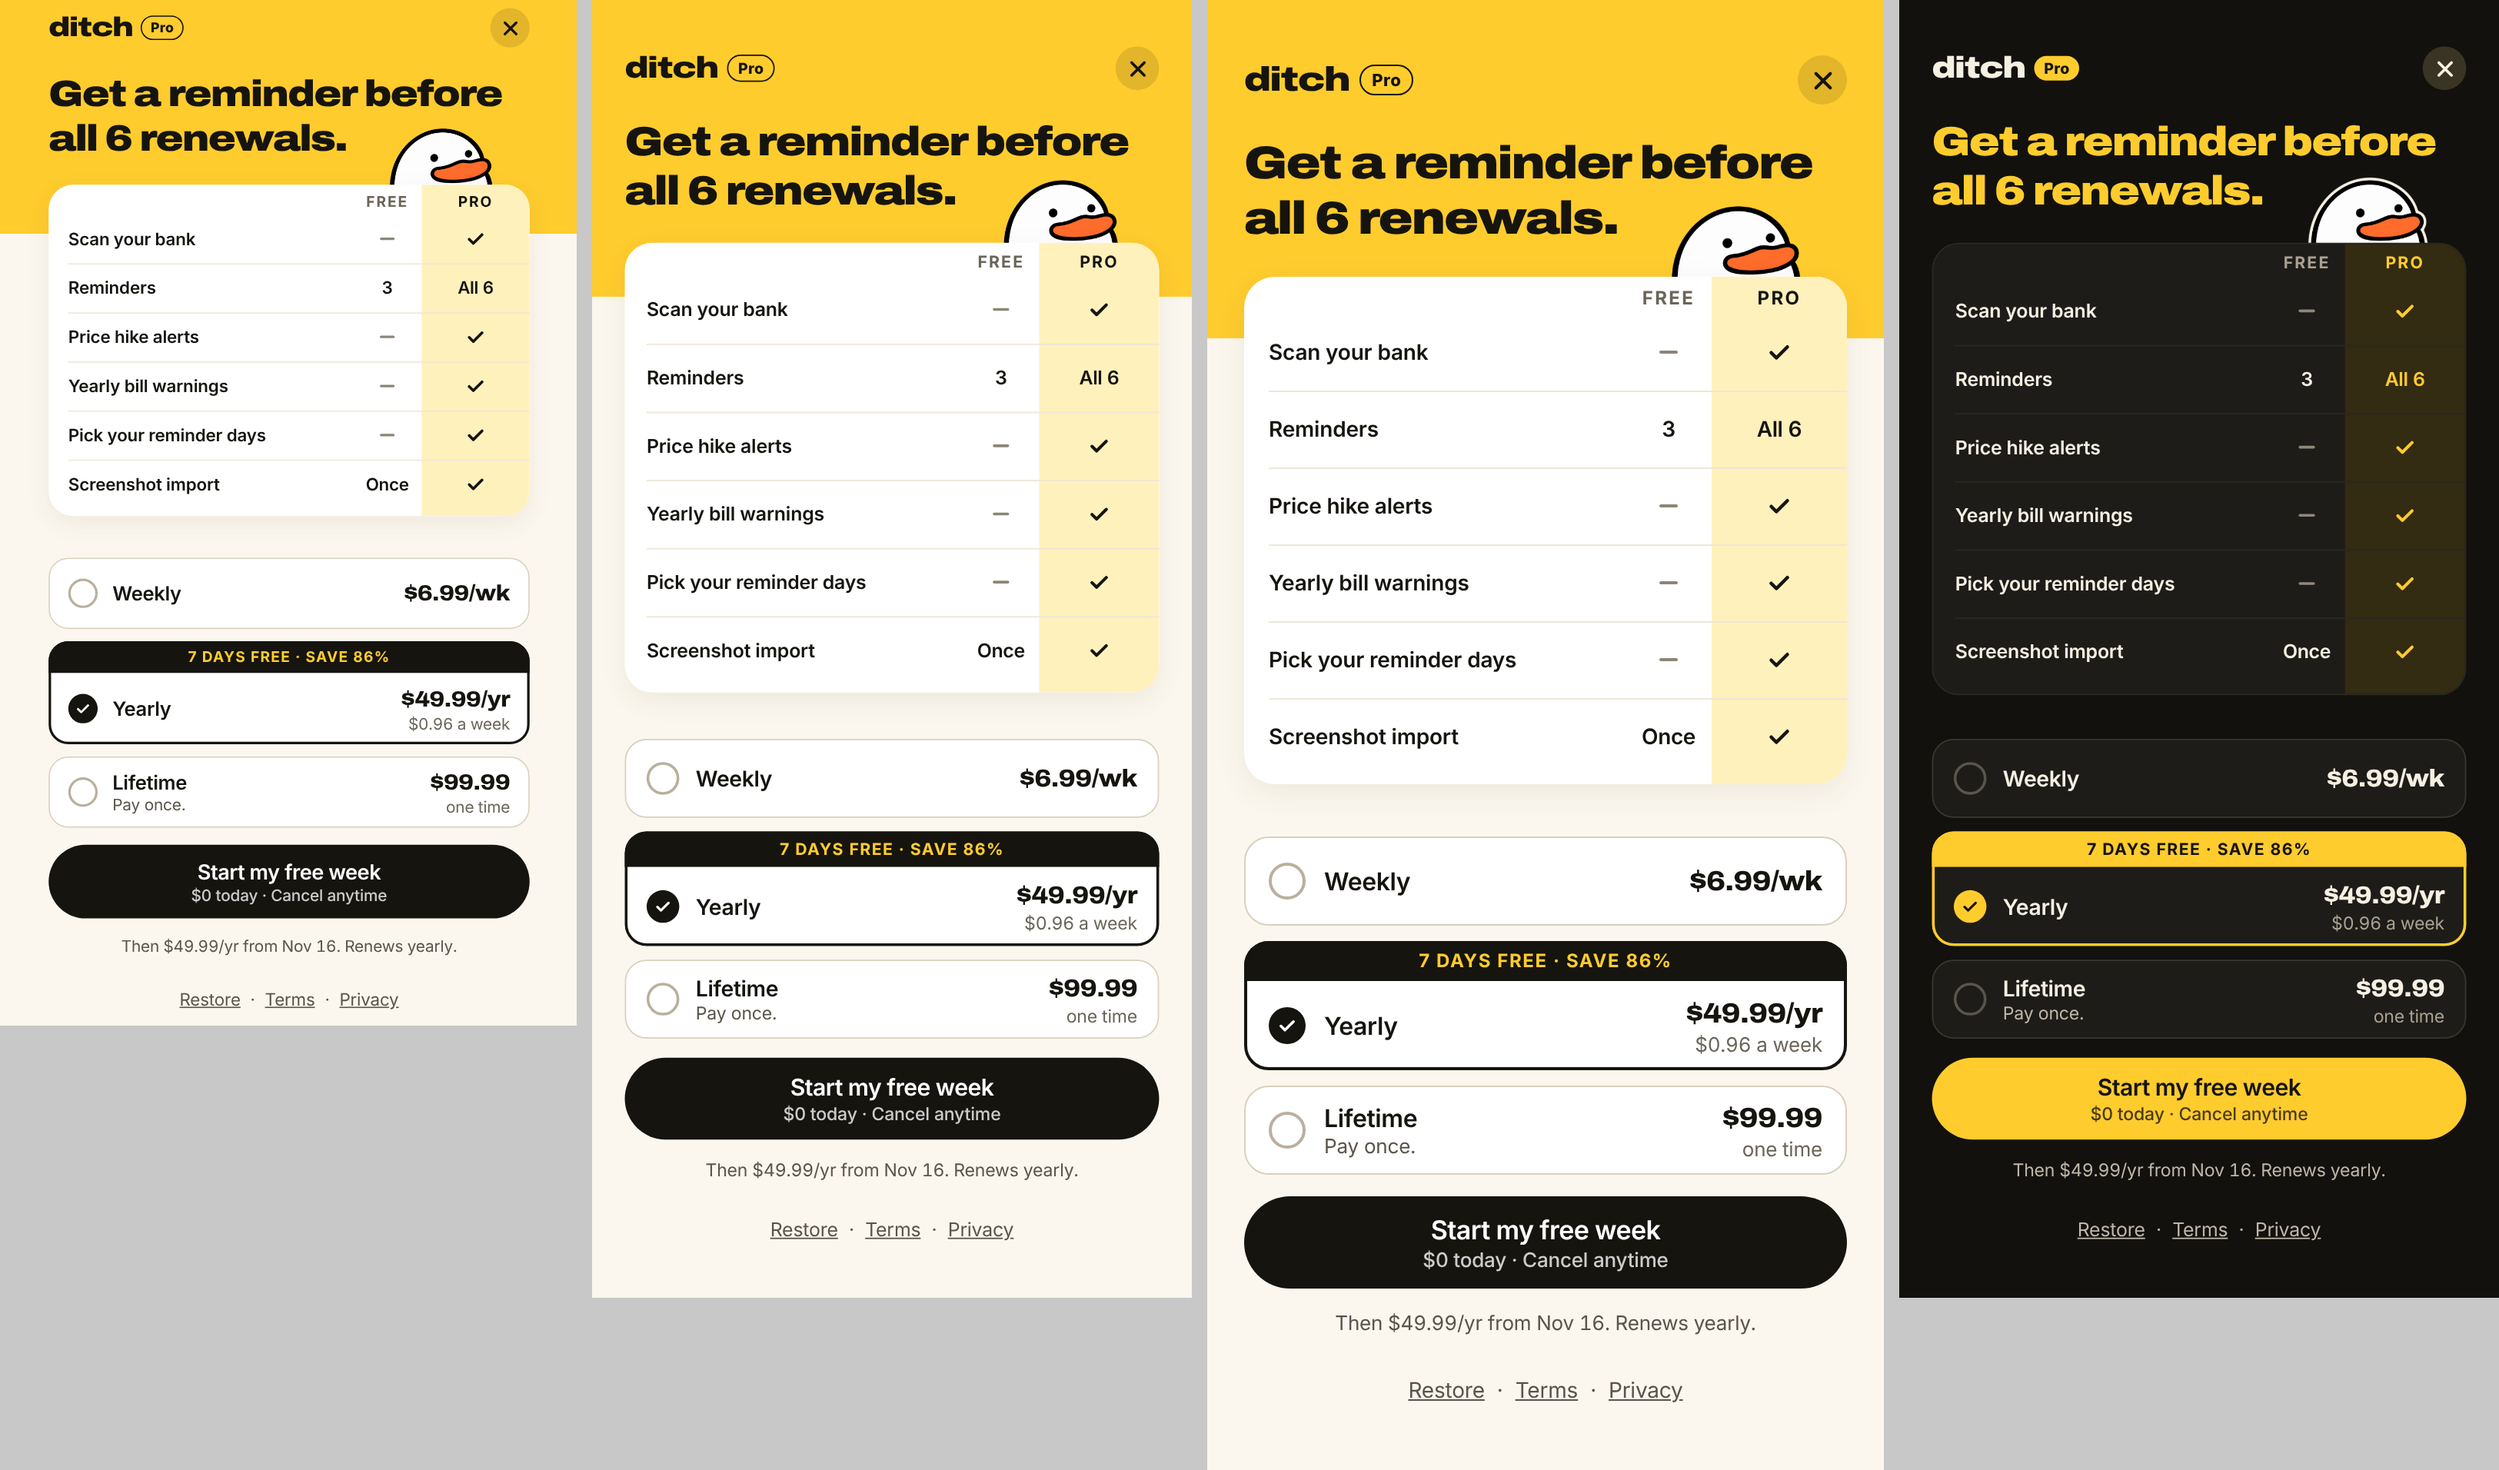
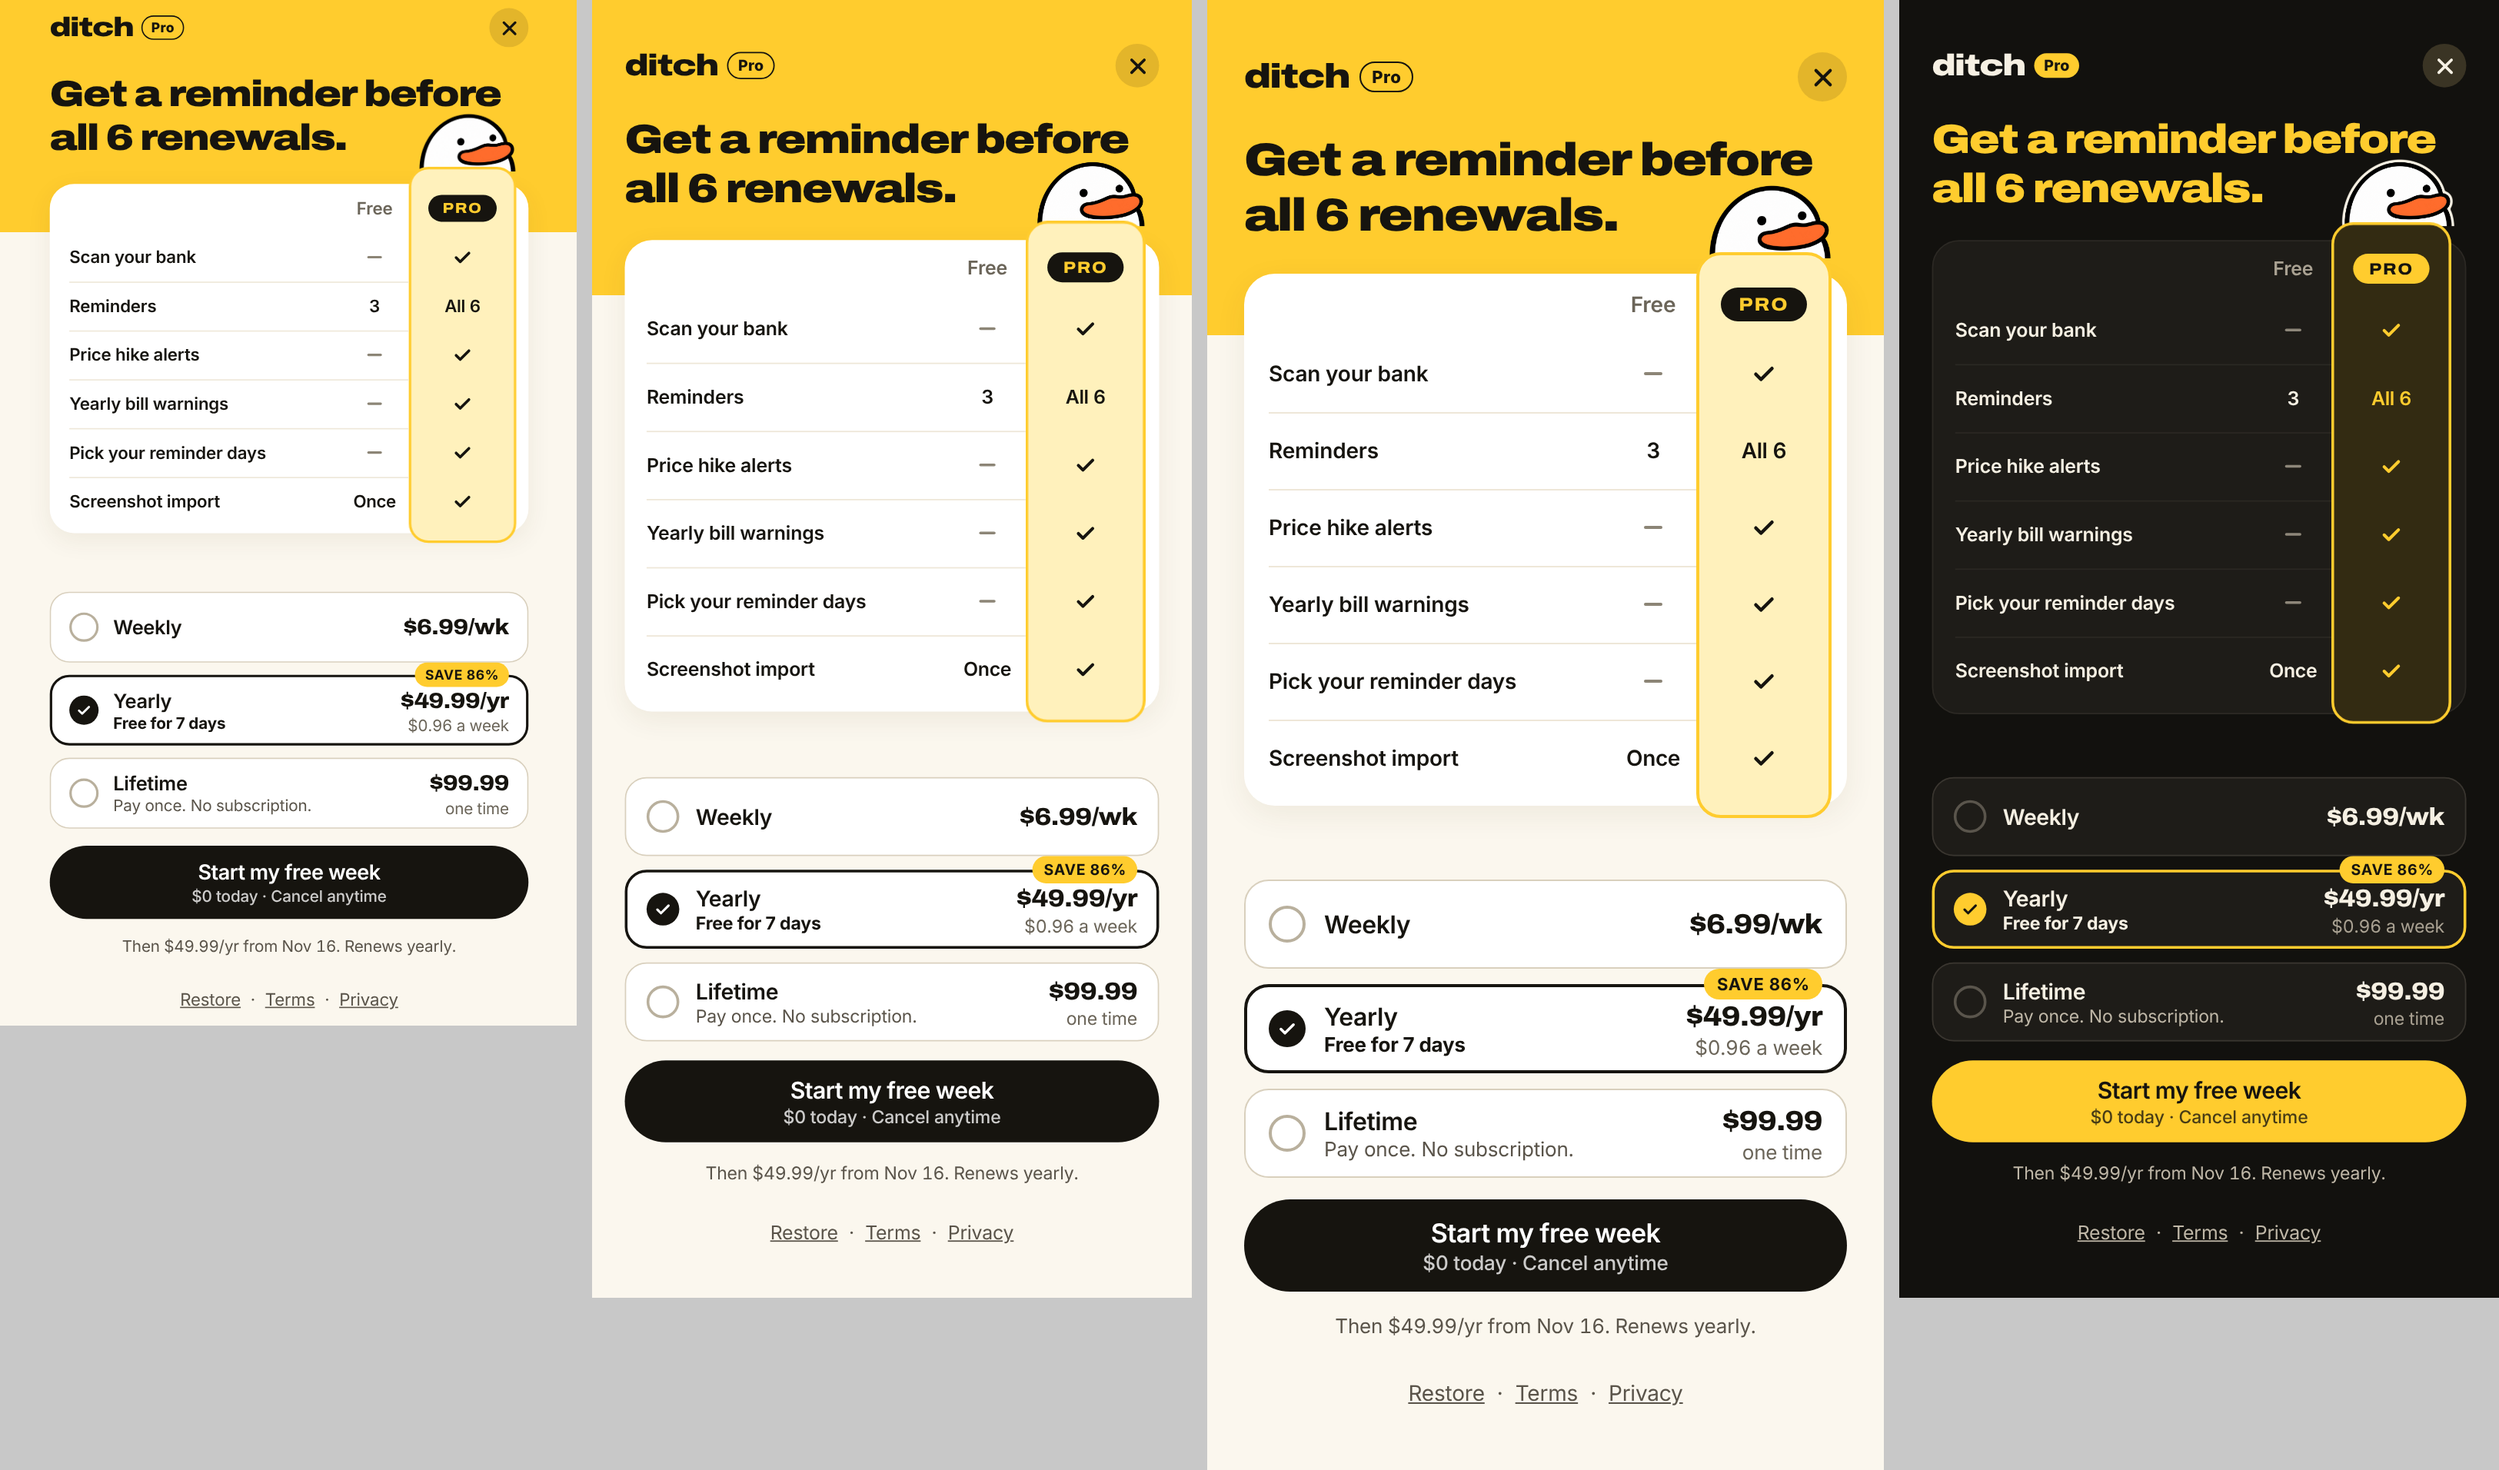
Paywall: raised Pro column with PRO pill and the duck on top; 'Free for 7 days' line and yellow SAVE ribbon on Yearly
Claude-Session: https://claude.ai/code/session_01Q8GFjWCZXwnj2nAcxjTkxh

diff --git a/src/app/paywall.tsx b/src/app/paywall.tsx
@@ -81,10 +81,12 @@ const SHORT: Record<string, string> = {
 
 // The fixed paywall canvas (see the scaling note in Paywall).
 const CANVAS_W = 440;
+/** Gap between the raised Pro column and the table's right edge. */
+const PRO_INSET = 10;
 const HERO_H = 190;
 const EDGE_W = 24;
 /** Everything on the canvas except the table rows (hero, table header, plans, button, price line, links). */
-const CANVAS_BASE = 596;
+const CANVAS_BASE = 600;
 /** Table row height range: 52pt (SE) to 66pt (fewer rows get more air). Each row has a label and a line under it. */
 const ROW_MIN = 40;
 const ROW_MAX = 50;
@@ -101,7 +103,7 @@ function Compare({ rows, width, overlap, tiny, grow = 0 }: { rows: Row[]; width:
   const [labelW, setLabelW] = useState<Record<string, number>>({});
   const colF = 56;
   const colP = Math.ceil(unlimitedW) + 24;
-  const room = width - 16 - 8 - colF - colP;
+  const room = width - 16 - 8 - colF - colP - PRO_INSET;
 
   const cell = (v: Cell, pro: boolean) => {
     const c = pro && dark ? brand.sunflower : ink;
@@ -116,7 +118,7 @@ function Compare({ rows, width, overlap, tiny, grow = 0 }: { rows: Row[]; width:
   const spoken = (v: Cell) => (v === 'yes' ? 'included' : v === 'no' ? 'not included' : v);
 
   return (
-    <Card style={{ marginTop: -overlap, overflow: 'hidden', zIndex: 2 }}>
+    <Card style={{ marginTop: -overlap, overflow: 'visible', zIndex: 2 }}>
       {/* Hidden measurements: "Unlimited" sets the Pro column; labels wrap only when they must. */}
       <View
         pointerEvents="none"
@@ -138,15 +140,32 @@ function Compare({ rows, width, overlap, tiny, grow = 0 }: { rows: Row[]; width:
           </Text>
         ))}
       </View>
-      <View style={{ position: 'absolute', top: 0, bottom: 0, right: 0, width: colP, backgroundColor: dark ? '#332B12' : '#FFF1BC' }} />
-      <View style={{ flexDirection: 'row', alignItems: 'center', height: 24, paddingTop: 4 }} importantForAccessibility="no-hide-descendants">
+      {/* Pro gets its own raised, yellow-edged column with a PRO pill on top (owner's pick, Nov 18: "B"). */}
+      <View
+        style={{
+          position: 'absolute',
+          top: -14,
+          bottom: -8,
+          right: PRO_INSET,
+          width: colP,
+          borderRadius: 16,
+          backgroundColor: dark ? '#332B12' : '#FFF1BC',
+          borderWidth: 2,
+          borderColor: brand.sunflower,
+        }}
+      />
+      <View style={{ flexDirection: 'row', alignItems: 'center', height: 40 }} importantForAccessibility="no-hide-descendants">
         <View style={{ flex: 1 }} />
-        <Txt v="eyebrow" tone="mute" center style={{ width: colF }}>
+        <Txt v="sub" tone="mute" center style={{ width: colF, fontFamily: F.semi }} maxFontSizeMultiplier={1.2}>
           Free
         </Txt>
-        <Txt v="eyebrow" color={dark ? brand.sunflower : ink} center style={{ width: colP }}>
-          Pro
-        </Txt>
+        <View style={{ width: colP, marginRight: PRO_INSET, alignItems: 'center' }}>
+          <View style={{ backgroundColor: dark ? brand.sunflower : brand.ink, borderRadius: 999, paddingHorizontal: 12, paddingVertical: 3 }}>
+            <Txt v="fine" color={dark ? brand.ink : brand.sunflower} style={{ fontFamily: F.wideHeavy, fontSize: 12, lineHeight: 16, letterSpacing: 1 }} maxFontSizeMultiplier={1.2}>
+              PRO
+            </Txt>
+          </View>
+        </View>
       </View>
       {rows.map((r, i) => {
         const two = (labelW[r.label] ?? 0) > room;
@@ -157,7 +176,7 @@ function Compare({ rows, width, overlap, tiny, grow = 0 }: { rows: Row[]; width:
             accessibilityLabel={`${r.label}${r.sub ? `, ${r.sub}` : ''}: Free, ${spoken(r.free)}. Pro, ${spoken(r.pro)}.`}
             style={{ flexDirection: 'row', alignItems: 'center', minHeight: ROW_MIN + grow }}
           >
-            {i ? <View style={{ position: 'absolute', top: 0, left: 16, right: 0, height: 1, backgroundColor: p.hair }} /> : null}
+            {i ? <View style={{ position: 'absolute', top: 0, left: 16, right: colP + PRO_INSET, height: 1, backgroundColor: p.hair }} /> : null}
             <View style={{ flex: 1, paddingLeft: 16, paddingRight: 8, paddingVertical: 6 }}>
               <Txt v="sub" color={p.cardFg} style={[LABEL_TEXT, { fontFamily: F.semi }, tiny && { fontSize: 13 }, { lineHeight: two ? 17 : 20 }]} maxFontSizeMultiplier={1.4}>
                 {two ? balanceLines(tiny ? (SHORT[r.label] ?? r.label) : r.label) : tiny ? (SHORT[r.label] ?? r.label) : r.label}
@@ -169,7 +188,7 @@ function Compare({ rows, width, overlap, tiny, grow = 0 }: { rows: Row[]; width:
               ) : null}
             </View>
             <View style={{ width: colF, alignItems: 'center', justifyContent: 'center' }}>{cell(r.free, false)}</View>
-            <View style={{ width: colP, alignItems: 'center', justifyContent: 'center' }}>{cell(r.pro, true)}</View>
+            <View style={{ width: colP, marginRight: PRO_INSET, alignItems: 'center', justifyContent: 'center' }}>{cell(r.pro, true)}</View>
           </View>
         );
       })}
@@ -311,8 +330,8 @@ export default function Paywall() {
             >
               {head}
             </Txt>
-            {/* His bill points at the Pro column; only the base of his neck tucks behind the table. */}
-            <Duck width={84} right={EDGE_W + 30} bottom={36} />
+            {/* He sits on top of the raised Pro column, peeking over it. */}
+            <Duck width={80} right={EDGE_W + PRO_INSET} bottom={50} />
           </View>
 
           <Compare rows={rows} width={CANVAS_W - EDGE_W * 2} overlap={40} grow={rowGrow} />
@@ -329,7 +348,12 @@ export default function Paywall() {
             />
             <PlanCard
               title="Yearly"
-              banner={`${yearly.trialDays} DAYS FREE · ${badge}`}
+              note={`Free for ${yearly.trialDays} days`}
+              noteStrong
+              badge={badge}
+              badgeBg={brand.sunflower}
+              badgeFg={brand.ink}
+              badgeRight
               price={billedLabel(yearly)}
               sub={`${perWeek} a week`}
               selected={planId === 'yearly'}

diff --git a/src/ui/sunflower/PlanCard.tsx b/src/ui/sunflower/PlanCard.tsx
@@ -24,6 +24,8 @@ export function PlanCard({
   tint,
   banner,
   badgeBg,
+  badgeRight,
+  noteStrong,
   badgeFg,
 }: {
   /** Fill for the selected card (the plan we want picked). */
@@ -32,6 +34,10 @@ export function PlanCard({
   banner?: string;
   /** Badge colours (default: ink on cream, sunflower in dark mode). */
   badgeBg?: string;
+  /** Put the badge on the top-right edge instead of over the name. */
+  badgeRight?: boolean;
+  /** Show the note line in bold ink (e.g. "Free for 7 days"). */
+  noteStrong?: boolean;
   badgeFg?: string;
   title: string;
   /** The billed price, e.g. "$29.99/yr". */
@@ -90,7 +96,14 @@ export function PlanCard({
             {tag ? <Tag label={tag} /> : null}
           </View>
           {note ? (
-            <Txt v="fine" tone="fg2" numberOfLines={1} maxFontSizeMultiplier={1.3}>
+            <Txt
+              v="fine"
+              tone={noteStrong ? undefined : 'fg2'}
+              color={noteStrong ? p.cardFg : undefined}
+              style={noteStrong ? { fontFamily: F.bold } : undefined}
+              numberOfLines={1}
+              maxFontSizeMultiplier={1.3}
+            >
               {note}
             </Txt>
           ) : null}
@@ -113,7 +126,7 @@ export function PlanCard({
           style={{
             position: 'absolute',
             top: -10,
-            left: 52,
+            ...(badgeRight ? { right: 16 } : { left: 52 }),
             height: 20,
             borderRadius: 10,
             paddingHorizontal: 8,

diff --git a/docs/MANUAL-TESTS.md b/docs/MANUAL-TESTS.md
@@ -86,10 +86,10 @@ Delete Ditch's data first so the onboarding shows again: Settings → Your data 
 **Settings → About → Sources**
 - [ ] Settings → About Ditch → **Sources** lists the studies (C+R Research 2022, Self Financial 2026, CNET/YouGov 2025, Chase 2021, West Monroe 2021) and each link opens the study.
 
-## 1o. Paywall v22: the table, short (Nov 18)
-- [ ] Headline "Get a reminder before all N renewals." with the duck, then a Free vs Pro table with one short name per row: (TestFlight only) Scan your bank · Reminders 3 vs All N · Price hike alerts · Yearly bill warnings · Pick your reminder days · Screenshot import (Free: Once).
-- [ ] Weekly $6.99/wk; Yearly picked (white card, black border) with a black strip on top: "7 DAYS FREE · SAVE 86%", and "$0.96 a week"; Lifetime $99.99 "Pay once. No subscription."
-- [ ] Button: "Start my free week" with "$0 today · Cancel anytime" inside. Under it one line: "Then $49.99/yr from (date). Renews yearly."
+## 1o. Paywall (Nov 18, table B + offer 2)
+- [ ] Headline "Get a reminder before all N renewals."; the duck sits on top of a raised, yellow-edged Pro column with a black PRO pill (Free is plain grey text). Rows: (TestFlight only) Scan your bank · Reminders 3 vs All N · Price hike alerts · Yearly bill warnings · Pick your reminder days · Screenshot import (Free: Once).
+- [ ] Weekly $6.99/wk. Yearly picked: "Free for 7 days" in bold under "Yearly", a yellow "SAVE 86%" on the card's top-right edge, $49.99/yr (the biggest price) and "$0.96 a week". Lifetime $99.99 "Pay once. No subscription."
+- [ ] Button: "Start my free week" with "$0 today · Cancel anytime" inside. Under it: "Then $49.99/yr from (date). Renews yearly."
 - [ ] Tap Weekly / Lifetime: the button and the line under it change; the button never moves.
 - [ ] Same picture on every iPhone; dark mode readable.
 
